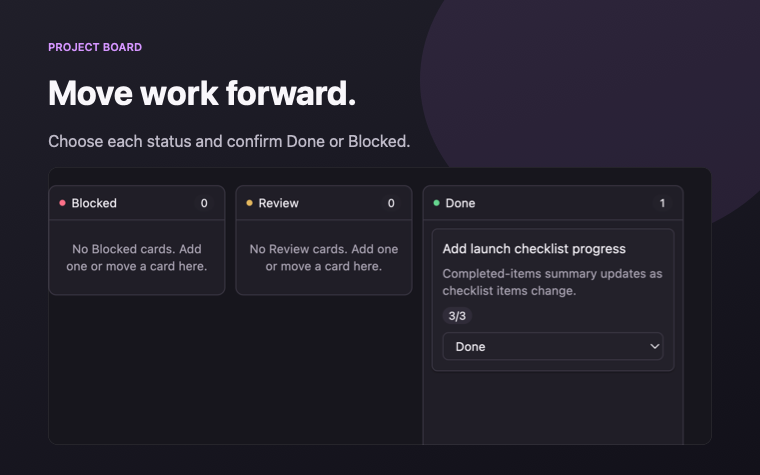
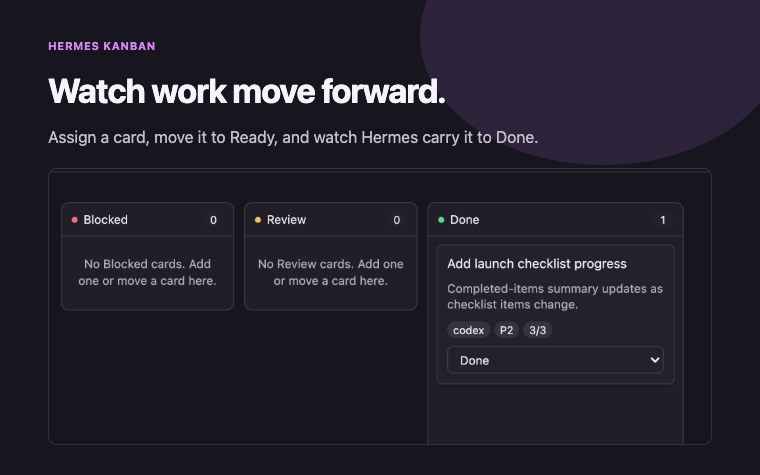
feat(kanban): follow Hermes worker lifecycle

diff --git a/src/board/app.js b/src/board/app.js
@@ -14,6 +14,7 @@ const STATUS_LABELS = Object.freeze({
   done: "Done",
 });
 const SESSION_CHECK_INTERVAL_MS = 5 * 60 * 1000;
+const BOARD_REFRESH_INTERVAL_MS = 3_000;
 
 function errorCopy(error) {
   if (error instanceof DashboardAuthError && error.code === "invalid_credentials") return "Hermes rejected those credentials. Check the username and password, then try again.";
@@ -32,7 +33,7 @@ function errorCopy(error) {
   if (error?.code === "relay_launch_spawn_missing") {
     return "Muxy SSH workspaces are not supported in this beta. Use a local Muxy workspace with your own SSH forward or a trusted HTTPS Dashboard address.";
   }
-  if (/^(Enter|Use|Board slug|Task title|Invalid)/.test(error?.message ?? "")) return error.message;
+  if (/^(Enter|Use|Choose|Board slug|Task title|Task instructions|Invalid)/.test(error?.message ?? "")) return error.message;
   return "The Hermes board could not be reached. Check the Dashboard address and sign-in, then try again.";
 }
 
@@ -47,6 +48,8 @@ export class HermesProjectBoard {
     this.usernameValue = "";
     this.passwordValue = "";
     this.createTitle = "";
+    this.createBody = "";
+    this.createAssignee = null;
     this.createInTriage = true;
     this.state = "disconnected";
     this.authSnapshot = Object.freeze({ state: "disconnected", providers: [], identity: null, label: "" });
@@ -58,12 +61,17 @@ export class HermesProjectBoard {
     this.sessionCheckInFlight = false;
     this.lastSessionCheckAt = 0;
     this.sessionCheckTimer = null;
+    this.boardRefreshInFlight = false;
+    this.boardRefreshTimer = null;
+    this.released = false;
   }
 
   start() {
+    this.released = false;
     this.render();
     void this.restoreSavedSession();
     this.sessionCheckTimer = globalThis.setInterval(() => { void this.verifySavedSession(); }, SESSION_CHECK_INTERVAL_MS);
+    this.boardRefreshTimer = globalThis.setInterval(() => { void this.refresh({ silent: true }); }, BOARD_REFRESH_INTERVAL_MS);
     window.muxy?.onFocus?.((focused) => {
       if (focused && Date.now() - this.lastSessionCheckAt >= SESSION_CHECK_INTERVAL_MS) void this.verifySavedSession();
       if (focused && this.state === "disconnected") this.urlInput?.focus();
@@ -73,10 +81,13 @@ export class HermesProjectBoard {
   }
 
   release() {
+    this.released = true;
     this.client?.release();
     this.client = null;
     if (this.sessionCheckTimer) globalThis.clearInterval(this.sessionCheckTimer);
     this.sessionCheckTimer = null;
+    if (this.boardRefreshTimer) globalThis.clearInterval(this.boardRefreshTimer);
+    this.boardRefreshTimer = null;
     this.usernameValue = "";
     this.passwordValue = "";
     if (this.usernameInput) this.usernameInput.value = "";
@@ -224,12 +235,27 @@ export class HermesProjectBoard {
   }
 
   boardView() {
+    const assignees = this.board.assignees;
+    if (this.createAssignee === null || (this.createAssignee && !assignees.includes(this.createAssignee))) {
+      this.createAssignee = assignees[0] ?? "";
+    }
     const title = h("input", {
-      id: "new-card-title", class: "board-input", type: "text", maxlength: "1000", placeholder: "Add a task…",
+      id: "new-card-title", class: "board-input board-task-title", type: "text", maxlength: "1000", placeholder: "Task title…", "aria-label": "Task title",
       oninput: (event) => { this.createTitle = event.target.value; this.syncForms(); },
     });
     title.value = this.createTitle;
-    const triage = h("select", { id: "new-card-column", class: "board-select", onchange: (event) => { this.createInTriage = event.target.value === "triage"; } },
+    const body = h("input", {
+      id: "new-card-body", class: "board-input board-task-instructions", type: "text", maxlength: "20000", placeholder: "Task instructions (optional)…", "aria-label": "Task instructions",
+      oninput: (event) => { this.createBody = event.target.value; },
+    });
+    body.value = this.createBody;
+    const assignee = h("select", {
+      id: "new-card-assignee", class: "board-select", "aria-label": "Hermes assignee",
+      onchange: (event) => { this.createAssignee = event.target.value; },
+    },
+    h("option", { value: "", selected: !this.createAssignee }, "Unassigned"),
+    assignees.map((name) => h("option", { value: name, selected: name === this.createAssignee }, name)));
+    const triage = h("select", { id: "new-card-column", class: "board-select", "aria-label": "Starting status", onchange: (event) => { this.createInTriage = event.target.value === "triage"; } },
       h("option", { value: "triage", selected: this.createInTriage }, "Triage"),
       h("option", { value: "todo", selected: !this.createInTriage }, "Todo"),
     );
@@ -240,7 +266,7 @@ export class HermesProjectBoard {
     return h("section", { class: "board-workspace" },
       h("div", { class: "board-toolbar" },
         h("div", null, h("strong", null, `${total} ${total === 1 ? "card" : "cards"}`)),
-        h("form", { class: "board-create-form", onsubmit: (event) => void this.createCard(event) }, title, triage, submit),
+        h("form", { class: "board-create-form", onsubmit: (event) => void this.createCard(event) }, title, assignee, triage, submit, body),
       ),
       h("p", { class: "board-message", role: this.message ? "alert" : null, "aria-live": "polite" }, this.message),
       h("div", { class: "board-columns", "aria-label": "Hermes Kanban board", "aria-busy": Boolean(this.pendingTaskId) }, this.board.columns.map((column) => this.columnView(column))),
@@ -403,18 +429,31 @@ export class HermesProjectBoard {
     this.render();
   }
 
-  async refresh() {
-    if (!this.client || this.pendingTaskId) return;
-    this.message = "Refreshing…";
-    this.render();
+  async refresh({ silent = false } = {}) {
+    if (this.released || !this.client || this.state !== "ready" || this.pendingTaskId || this.boardRefreshInFlight || this.sessionCheckInFlight) return;
+    this.boardRefreshInFlight = true;
+    if (!silent) {
+      this.message = "Refreshing…";
+      this.render();
+    }
+    let shouldRender = !silent;
     try {
-      this.board = await this.client.loadBoard();
-      this.message = "";
-      await this.persistSession();
+      const board = await this.client.loadBoard();
+      if (!this.released) {
+        shouldRender ||= JSON.stringify(board) !== JSON.stringify(this.board);
+        this.board = board;
+      }
+      if (!silent) {
+        this.message = "";
+        await this.persistSession();
+      }
     } catch (error) {
       this.handleActionError(error);
+      shouldRender = true;
+    } finally {
+      this.boardRefreshInFlight = false;
     }
-    this.render();
+    if (!this.released && shouldRender) this.render();
   }
 
   async createCard(event) {
@@ -426,10 +465,13 @@ export class HermesProjectBoard {
     try {
       await this.client.createTask({
         title: this.createTitle,
+        body: this.createBody,
+        assignee: this.createAssignee || null,
         triage: this.createInTriage,
         idempotencyKey: `muxy-${globalThis.crypto.randomUUID()}`,
       });
       this.createTitle = "";
+      this.createBody = "";
       this.board = await this.client.loadBoard();
       this.message = "Card created.";
       await this.persistSession();

diff --git a/test/kanban-client.test.js b/test/kanban-client.test.js
@@ -132,17 +132,34 @@ test("Kanban client uses the verified dashboard session and keeps cookies out of
   const client = new KanbanClient({ baseUrl: "https://hermes.example", session, board: "muxy-project" });
 
   await client.loadBoard();
-  await client.createTask({ title: "New", triage: true, idempotencyKey: "muxy-123" });
+  await client.createTask({ title: "New", body: "Implement the verified change.", assignee: "builder", triage: true, idempotencyKey: "muxy-123" });
   await client.updateStatus("t_new", "ready");
 
   assert.equal(calls[0].url, "https://hermes.example/api/plugins/kanban/board?board=muxy-project");
   assert.equal(calls[1].url, "https://hermes.example/api/plugins/kanban/tasks?board=muxy-project");
   assert.equal(calls[2].url, "https://hermes.example/api/plugins/kanban/tasks/t_new?board=muxy-project");
-  assert.deepEqual(calls[1].body, { title: "New", triage: true, workspace_kind: "scratch", idempotency_key: "muxy-123" });
+  assert.deepEqual(calls[1].body, {
+    title: "New",
+    body: "Implement the verified change.",
+    assignee: "builder",
+    triage: true,
+    workspace_kind: "scratch",
+    idempotency_key: "muxy-123",
+  });
   assert.deepEqual(calls[2].body, { status: "ready" });
   assert.equal(JSON.stringify(calls).includes("cookie"), false);
   client.release();
   assert.equal(client.session, null);
+});
+
+test("Kanban task creation validates bounded instructions and assignee values", async () => {
+  const client = new KanbanClient({
+    baseUrl: "https://hermes.example",
+    board: "default",
+    session: { async requestJson() { throw new Error("request should not run"); } },
+  });
+  await assert.rejects(client.createTask({ title: "Task", body: "x".repeat(20_001) }), /instructions/);
+  await assert.rejects(client.createTask({ title: "Task", assignee: "bad\nprofile" }), /assignee/);
 });
 
 test("Kanban client distinguishes authentication, unavailable plugin, and generic failures", async () => {

diff --git a/src/styles/board.css b/src/styles/board.css
@@ -216,8 +216,14 @@ button:disabled { cursor: default; opacity: 0.6; }
 
 .board-toolbar > div { display: grid; gap: var(--s1); min-width: 0; }
 .board-toolbar span { color: var(--muxy-foreground-muted); font-size: var(--font-footnote); }
-.board-create-form { margin-left: auto; }
-.board-create-form .board-input { width: clamp(180px, 28vw, 420px); }
+.board-create-form {
+  width: min(70vw, 760px);
+  margin-left: auto;
+  display: grid;
+  grid-template-columns: minmax(180px, 2fr) minmax(120px, 1fr) auto auto;
+}
+.board-create-form .board-input { width: 100%; }
+.board-task-instructions { grid-column: 1 / -1; }
 .board-message { min-height: var(--s8); padding: var(--s2) var(--s6); }
 
 .board-columns {
@@ -294,8 +300,9 @@ button:disabled { cursor: default; opacity: 0.6; }
 @media (max-width: 720px) {
   .board-connect-shell { grid-template-columns: minmax(0, 1fr); gap: var(--s7); padding: var(--s7); }
   .board-toolbar { align-items: stretch; flex-direction: column; }
-  .board-create-form { width: 100%; margin-left: 0; flex-wrap: wrap; }
-  .board-create-form .board-input { width: 100%; flex: 1 0 100%; }
+  .board-create-form { width: 100%; margin-left: 0; grid-template-columns: minmax(0, 1fr) minmax(120px, auto); }
+  .board-task-title,
+  .board-task-instructions { grid-column: 1 / -1; }
   .board-workspace { overflow: hidden; }
   .board-columns { flex-direction: column; align-content: start; overflow-x: hidden; overflow-y: auto; }
   .board-column { overflow: visible; }

diff --git a/test/board-ui-contract.test.js b/test/board-ui-contract.test.js
@@ -22,6 +22,9 @@ test("the project board is a responsive Muxy tab rather than a second chat clien
     "OAuth/OIDC not supported",
     "You’ll stay signed in on this Mac until you log out. Use password sign-in only on a trusted network, VPN, or operator-controlled connection.",
     "Add card",
+    "Task title",
+    "Task instructions",
+    "Hermes assignee",
   ]) assert.match(app, new RegExp(copy.replace(/[.*+?^${}()|[\]\\]/g, "\\$&")));
 
   assert.match(app, /type: "password", autocomplete: "current-password"/);
@@ -34,6 +37,11 @@ test("the project board is a responsive Muxy tab rather than a second chat clien
   assert.match(app, /SESSION_CHECK_INTERVAL_MS/);
   assert.match(app, /authSnapshot\.state === "logged_in"/);
   assert.match(app, /listBoards/);
+  assert.match(app, /BOARD_REFRESH_INTERVAL_MS/);
+  assert.match(app, /refresh\(\{ silent: true \}\)/);
+  assert.match(app, /boardRefreshInFlight/);
+  assert.match(app, /assignee: this\.createAssignee \|\| null/);
+  assert.match(app, /body: this\.createBody/);
   assert.match(app, /selectBoardSlug/);
   assert.match(app, /openBoard/);
   assert.doesNotMatch(app, /id: "board-slug"/);
@@ -51,5 +59,6 @@ test("the project board is a responsive Muxy tab rather than a second chat clien
   assert.match(css, /overflow-y:\s*auto/);
   assert.match(css, /min-height:\s*0/);
   assert.match(css, /board-session/);
+  assert.match(css, /board-task-instructions/);
   assert.match(css, /prefers-reduced-motion:\s*reduce/);
 });

diff --git a/src/kanban-client.js b/src/kanban-client.js
@@ -196,14 +196,22 @@ export class KanbanClient {
     return normalizeBoard(classifyResponse(response));
   }
 
-  async createTask({ title, triage = false, idempotencyKey }) {
+  async createTask({ title, body = "", assignee = null, triage = false, idempotencyKey }) {
     const normalizedTitle = String(title ?? "").trim();
     if (!normalizedTitle || normalizedTitle.length > 1_000) throw new Error("Task title must be 1–1,000 characters.");
+    const normalizedBody = String(body ?? "").trim();
+    if (normalizedBody.length > 20_000) throw new Error("Task instructions must be 20,000 characters or fewer.");
+    const normalizedAssignee = assignee == null || assignee === "" ? null : String(assignee).trim();
+    if (normalizedAssignee !== null && (!normalizedAssignee || normalizedAssignee.length > 128 || /[\u0000-\u001f\u007f]/.test(normalizedAssignee))) {
+      throw new Error("Choose a valid Hermes assignee.");
+    }
     const response = await this.session.requestJson({
       url: this.endpoint("/tasks"),
       method: "POST",
       body: {
         title: normalizedTitle,
+        body: normalizedBody,
+        assignee: normalizedAssignee,
         triage: Boolean(triage),
         workspace_kind: "scratch",
         idempotency_key: typeof idempotencyKey === "string" ? idempotencyKey.slice(0, 128) : null,

diff --git a/test/ui-contract.test.js b/test/ui-contract.test.js
@@ -71,8 +71,10 @@ test("OAuth-only providers and password security boundaries are explicit in both
   assert.match(readme, /assets\/readme\/agent-approval\.png/);
   assert.match(readme, /assets\/readme\/project-board\.png/);
   assert.doesNotMatch(readme, /assets\/demo\/|<video|\.gif|\.mp4/i);
-  assert.match(readme, /does not automatically attach an agent request to a card/);
-  assert.match(readme, /does not.*provide drag-and-drop/);
+  assert.match(readme, /Hermes attaches each dispatched worker run to its Kanban card/);
+  assert.match(readme, /refreshes automatically to show those worker-driven changes/);
+  assert.match(readme, /Requests started separately from the Agent panel remain standalone/);
+  assert.doesNotMatch(readme, /Cards move only when you choose|does not automatically attach an agent request to a card/);
 });
 
 test("native styles retain themes, focus, responsive scale, and reduced motion", async () => {

diff --git a/README.md b/README.md
@@ -18,14 +18,15 @@ Start a request from the Hermes panel and follow the response and tool activity 
 
 ## Kanban boards
 
-Run **Hermes: Open Project Board** to work with the board currently selected in Hermes.
+Run **Hermes: Open Project Board** to monitor and manage a real Hermes Kanban board from Muxy. Kanban tasks are different from standalone requests in the Agent panel: they are durable cards owned by Hermes.
 
-- Add a card to an available starting status
-- Move a card through the status menu as the work changes
-- Confirm the change before moving a card to Blocked or Done
-- Refresh the board or explicitly select another one
+- Create a card with task instructions and choose the Hermes profile that should handle it
+- Move an assigned card to Ready so the Hermes dispatcher can claim it
+- Follow automatic transitions through Running and into Review, Blocked, or Done while the board is open
+- Move cards manually when you need to intervene; Blocked and Done require confirmation
+- Refresh on demand or explicitly select another board
 
-Cards move only when you choose a new status. The extension does not automatically attach an agent request to a card, move cards when a run finishes, or provide drag-and-drop.
+Hermes attaches each dispatched worker run to its Kanban card and records the outcome. The Muxy board refreshes automatically to show those worker-driven changes. Requests started separately from the Agent panel remain standalone and are not converted into cards.
 
 ![Hermes Project Board showing the Launchpad Checklist card in Done](./assets/readme/project-board.png)
 
@@ -65,8 +66,8 @@ The extension does not need to know whether Hermes is native, in Docker, or behi
 
 - Password login only; OAuth and OIDC are not implemented
 - One Hermes Dashboard connection at a time
-- Live agent controls work only while the panel is open
-- No background approvals or background run ownership
+- Standalone Agent panel controls work only while the panel is open
+- No background approvals or background ownership for standalone Agent panel runs; Hermes owns Kanban workers independently
 - No mapping between Muxy workspace paths and Hermes filesystem paths
 - Muxy SSH workspaces are not supported in version `0.1.0`
 
